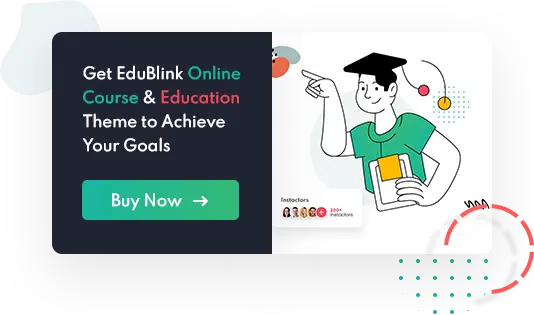
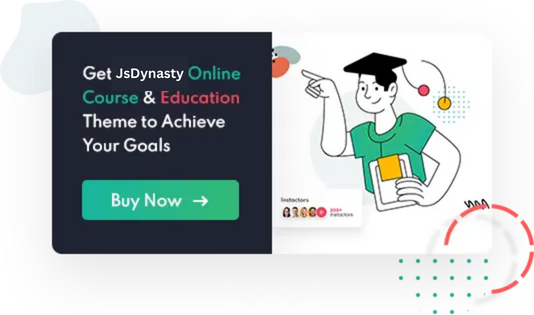
update

diff --git a/index.html b/index.html
@@ -115,7 +115,7 @@
                                         <ul class="mega-menu mega-menu-one">
                                             <li>
                                                 <ul class="submenu mega-sub-menu mega-sub-menu-01">
-                                                    <li><a href="index.html">EduBlink Education <span class="badge-1">hot</span></a></li>
+                                                    <li><a href="index.html">JsDynasty Education <span class="badge-1">hot</span></a></li>
                                                     <li><a href="index-distant-learning.html">Distant Learning</a></li>
                                                     <li><a href="index-university.html">University</a></li>
                                                     <li><a href="index-online-academy.html">Online Academy <span class="badge-1">hot</span></a></li>
